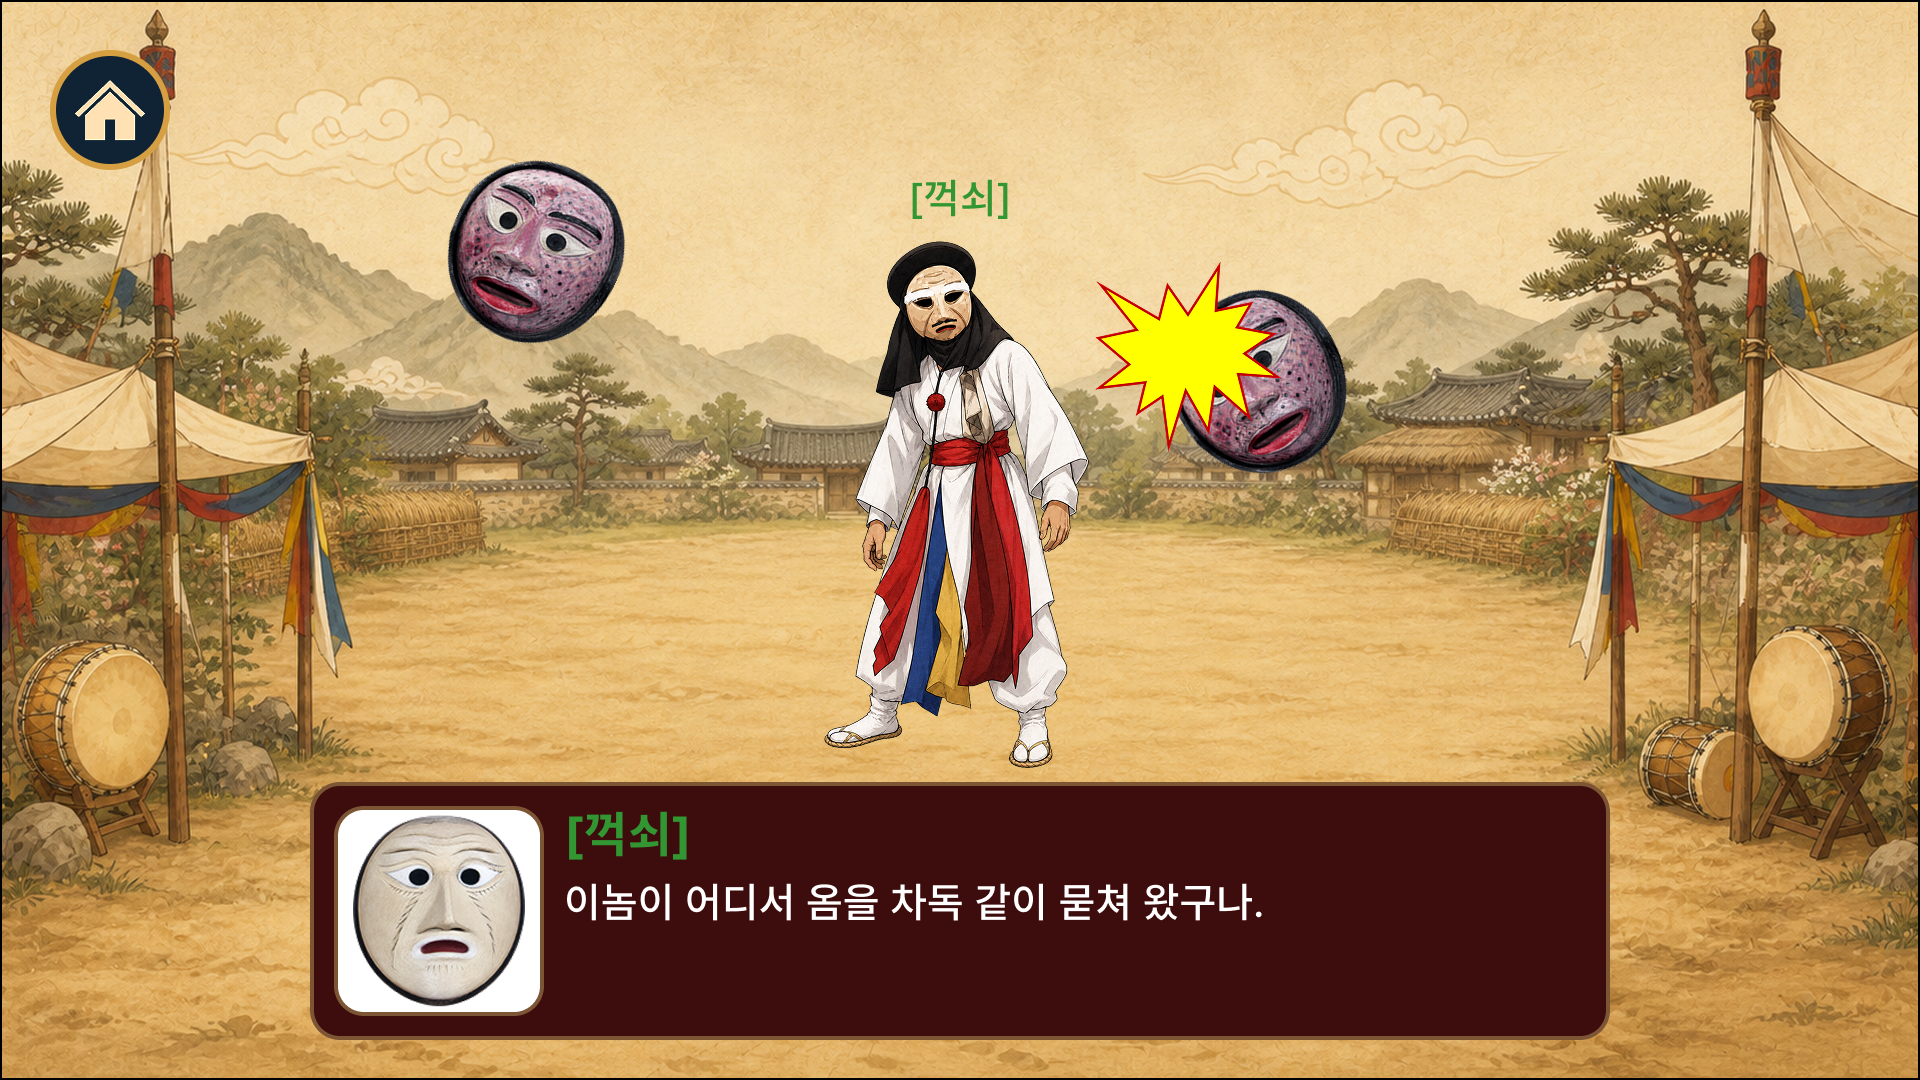
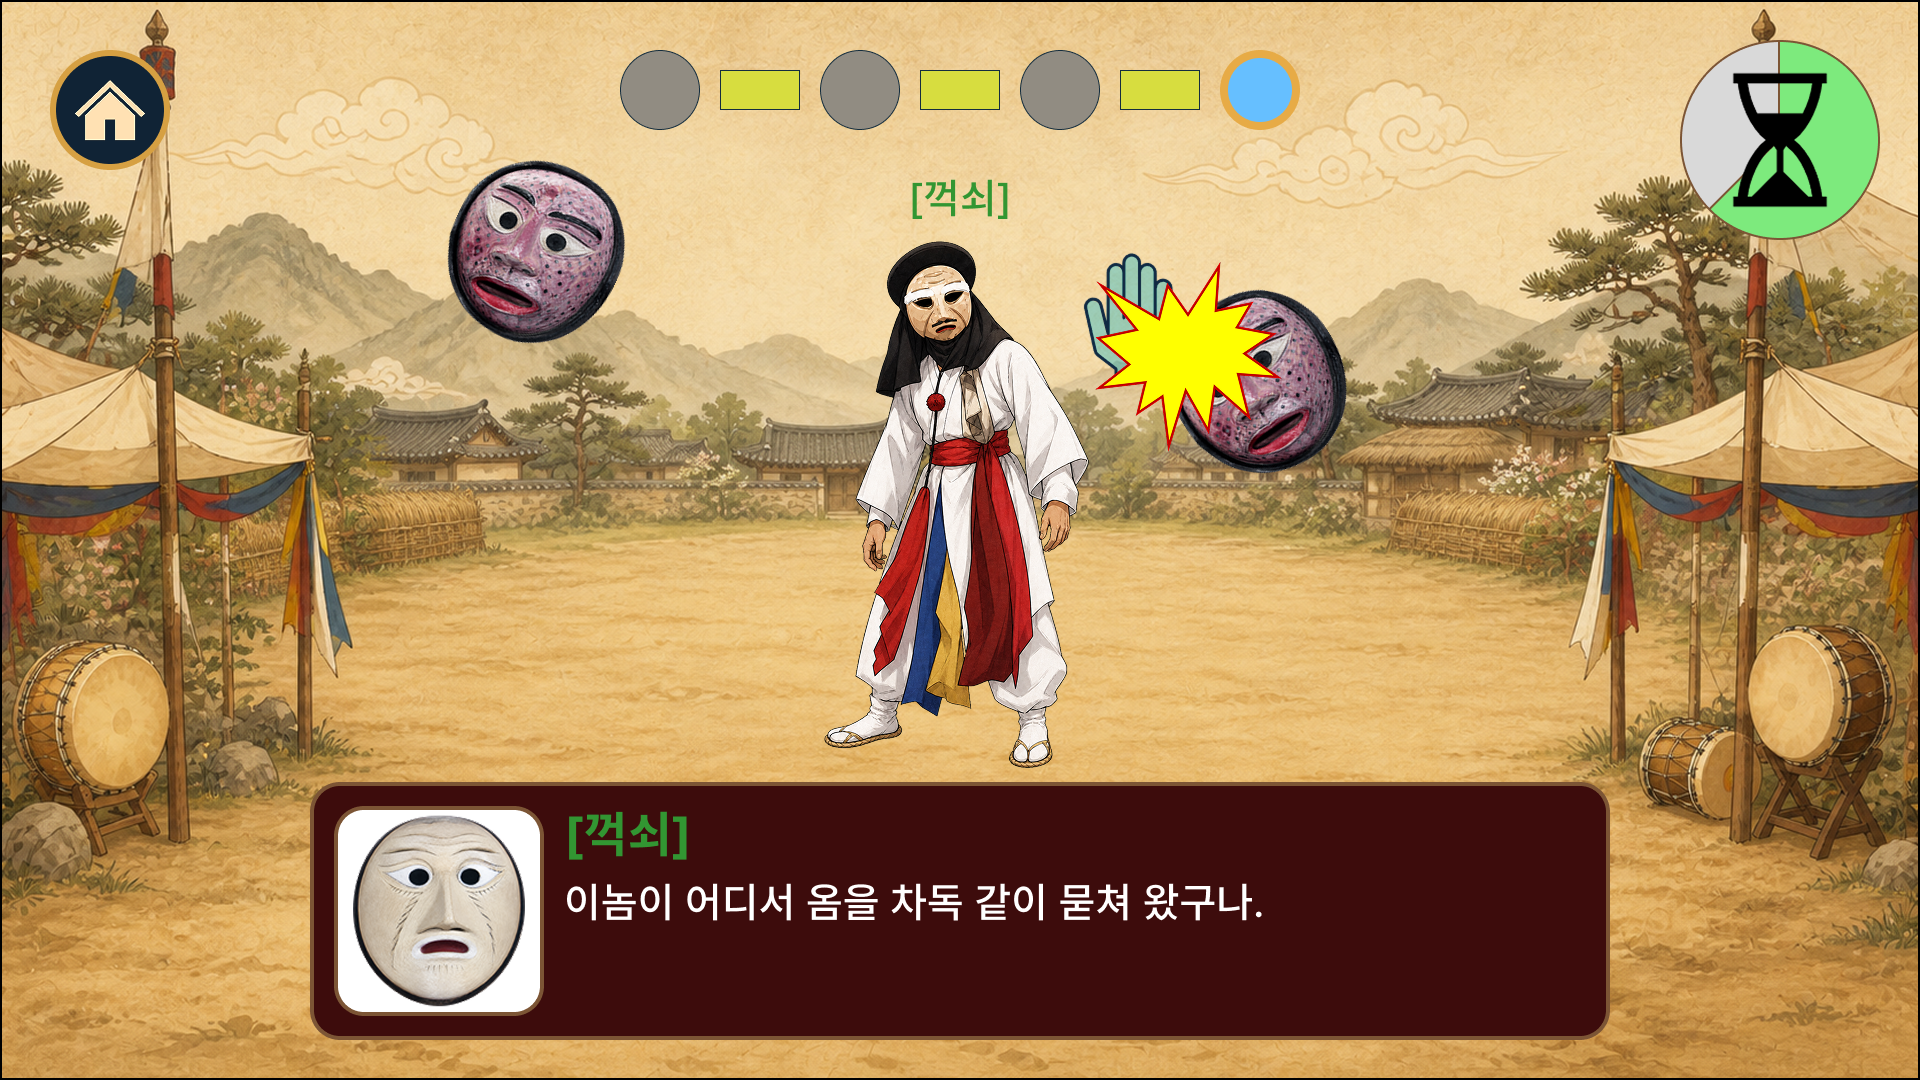
update: 옴탈잡이 기획과 플레이 자산 반영

Changed region(s): [[0.3125, 0.0306, 0.6875, 0.1222], [0.875, 0.0306, 1.0, 0.2444], [0.5625, 0.2444, 0.625, 0.3361]]

diff --git a/05_산출물/시범콘텐츠/05_덧뵈기 - 탈놀음 한바탕/덧뵈기 - 탈놀음 한바탕 기획서.md b/05_산출물/시범콘텐츠/05_덧뵈기 - 탈놀음 한바탕/덧뵈기 - 탈놀음 한바탕 기획서.md
@@ -497,22 +497,20 @@ updated: 2026-09-02
 
 ### 6.2.2 진행
 
-<img src="../../../assets/시범콘텐츠/탈놀음/탈놀음_시작.png"  width=500 >
-
 #### 1) 체험 준비 UI 표시
+
+<img src="../../../assets/시범콘텐츠/탈놀음/탈놀음_시작.png"  width=500 >
 
 - 자세 가이드라인과 장쇠 대사 표시
 - 장쇠가 가이드라인에 몸을 맞추도록 안내
 - 카메라에 비친 유저의 모습을 화면에 표시하여 유저가 정위치에 있을 수 있도록 안내
 
-#### 2) 체험 준비 완료
+#### 2) 체험 준비 완료 및 시작
+
+<img src="../../../assets/시범콘텐츠/탈놀음/손위치포인터.png"  width=500 >
 
 - 유저 등록이 완료 시 가이드라인 숨김
-- 장쇠가 준비 완료 및 체험 시작 안내
-
-#### 3) 선택 마당 시작
-
-- 선택 마당 체험 시작
+- ① 손 위치 포인터(이하 포인터) 표시
 
 ## 6.3 옴탈잡이
 
@@ -527,56 +525,86 @@ updated: 2026-09-02
 <img src="../../../assets/시범콘텐츠/탈놀음/옴탈_시작.png"  width=500 >
 
 ##### (1) 진행
-1. 화면에 장쇠와 꺽쇠가 등장하여 대사 진행
+1. 꺽쇠가 화면 중앙에 등장하여 대사 진행
 
-#### 2) 옴탈 조우
+#### 2) 옴탈 쫓아내기
+
+##### (1) 진행
 
 <img src="../../../assets/시범콘텐츠/탈놀음/옴탈_조우.png"  width=500 >
 
-##### (1) 진행
-
-1. 꺽쇠 화면 중앙 배치 및 화면 상단에 진행 인디케이터 표시
-2. 옴탈 화면 좌우 측에 랜덤하게 지정된 횟수(데이터 테이블로 관리)만큼 랜덤하게 배치
+1. UI 활성화 및 초기화
+	- 인디케이터 초기화
+	- 타이머 초기화
+2. 옴탈이 화면 좌우측에 랜덤하게 지정된 횟수(데이터 테이블로 관리)만큼 배치
 3. 유저가 팔을 휘두르면 모션 인식 후 꺽쇠가 팔 휘두르는 동작 실행
 	- 모션 인식 후 동작 실행까지 걸리는 시간이 짧아야 함
-4. 모션 인식 결과 ROI 유효 판정 시 공격 성공 처리
+4. 모션 인식 결과 유효 판정 시 공격 성공 처리
 	- 진행 점수(세션 데이터 / 수행 기록) 반영
-	- 진행 인디케이터 갱신
-5. 지정된 횟수(데이터 테이블로 관리) 도달 시 다음 단계 진행
+		- 유저 움직임의 정도에 따라 점수 차등 적용
+	- 옴탈 피격 동작 1회 실행 및 피격 이펙트 표시
+5. 타이머 종료 시 다음 단계 진행
 
 #### 3) 옴탈 잡아채기
 
-<img src="../../../assets/시범콘텐츠/탈놀음/옴탈_잡아채기.png"  width=500 >
+##### (1) 시작
 
-##### (1) 진행
+<img src="../../../assets/시범콘텐츠/탈놀음/옴탈_잡아채기_0.png"  width=500 >
 
-1. 꺽쇠 퇴장, 옴탈 화면 중앙 배치 및 진행 인디케이터 갱신
-2. 옴탈 머리 영역에 잡아채는 아이콘 표시
-3. 옴탈이 지정된 영역 내에서 좌우로 랜덤하게 이동
-	- 랜덤 거리 이동 -> 대기 -> 방향 랜덤 결정 -> 랜덤 거리 이동 (반복)
-	- 이동 중 영역 한계 충돌 시 대기 후 반대 방향으로 랜덤 거리 이동
-4. 유저가 팔을 움직여 모션 인식으로 잡아채는 아이콘 선택 시도
-5. ROI 유효 판정 유지 시 쿨다운(데이터 테이블로 관리)이 실행되고 완료 시 공격 성공 처리
+1. 꺽쇠 퇴장, 옴탈 화면 중앙 배치
+2. UI 갱신
+	- 인디케이터 갱신
+	- 타이머 초기화
+3. 옴탈 머리의 벙거지 테두리에 굵은선(주변과 구별될 수 있는 색)이 표시되면서 확대 축소 반복
+4. 모션 인식 결과 포인터가 벙거지에 닿으면 진행 시작
+
+##### (2) 진행
+
+<img src="../../../assets/시범콘텐츠/탈놀음/옴탈_잡아채기_1.png"  width=500 >
+
+1. 꺽쇠 캐릭터 오브젝트 변환
+	- 우스꽝스러운 SD 캐릭터
+		- <span style="color: #C94A4A;">요청사항</span>: 얼굴과 목이 분리되어 있어서 흔들릴 때 덜렁거리는 느낌이 더 강하게 났으면 합니다.
+2. 유저의 모션에 따라 옴탈 SD 캐릭터가 흔들리고 캐릭터로부터 엽전이 떨어짐
+	- <span style="color: #C94A4A;">요청사항</span>: 엽전 떨어지는 연출은 디아블로의 보물 고블린같은 느낌이 났으면 합니다.
+3. 흔들림 강도에 따라 연출 차등 적용
+	- 옴탈 SD 캐릭터의 흔들림
+	- 옴탈에게서 떨어지는 엽전의 수량
+4. 모션 인식 결과 흔들 때마다 공격 성공 처리
+	- 일정 거리 이상 흔들어야 유효 판정
 	- 진행 점수(세션 데이터 / 수행 기록) 반영
-	- 진행 인디케이터 갱신
-6. 지정된 횟수(데이터 테이블로 관리) 도달 시 다음 단계 진행
+		- 유저 움직임의 정도에 따라 점수 차등 적용
+5. 타이머 종료 시 다음 단계 진행
 
 #### 4) 옴탈 채검하기
 
-<img src="../../../assets/시범콘텐츠/탈놀음/옴탈_채검하기.png"  width=500 >
+##### (1) 시작
 
-##### (1) 진행
+<img src="../../../assets/시범콘텐츠/탈놀음/옴탈_채검하기_0_화살표표시.png"  width=500 >
 
-1. 옴탈 화면 중앙 배치 유지 및 진행 인디케이터 갱신
-2. 옴탈 얼굴 영역에 긁는 아이콘 표시
-3. 옴탈이 지정된 영역 내에서 좌우로 랜덤하게 이동
-	- 랜덤 거리 이동 -> 대기 -> 방향 랜덤 결정 -> 랜덤 거리 이동 (반복)
-	- 이동 중 영역 한계 충돌 시 대기 후 반대 방향으로 랜덤 거리 이동
-4. 유저가 팔을 움직여 모션 인식으로 긁는 아이콘 선택 시도
-5. ROI 유효 판정 유지 시 쿨다운(데이터 테이블로 관리)이 실행되고 완료 시 공격 성공 처리
+1. 꺽쇠 캐릭터 오브젝트 변환
+	- 기분 나쁜 표정을 짓고 있는 옴탈의 얼굴 강조 캐릭터
+2. UI 갱신
+	- 인디케이터 갱신
+	- 타이머 초기화
+	- 옴탈 얼굴 좌우에 불투명 화살표(①, ②) 표시
+3. 모션 인식 결과 포인터가 좌 -> 우, 우 -> 좌로 일정 거리 이상 움직이면 진행 시작
+
+##### (2) 진행
+
+<img src="../../../assets/시범콘텐츠/탈놀음/옴탈_채검하기_1.png"  width=500 >
+
+1. 피격 판정 성공 시 처리
+	- 옴탈 피격 애니메이션 및 이펙트 실행
+		- 애니메이션 실행 중 포인터는 유지하지만 입력은 막음
+2. 휘두르는 강도에 따라 연출 차등 적용
+	- 옴탈 캐릭터 흔들림
+	- 이펙트 크기
+3. 모션 인식 결과 옴탈 피격 시 공격 성공 처리
+	- 일정 거리 이상 손을 휘둘러야 유효 판정
 	- 진행 점수(세션 데이터 / 수행 기록) 반영
-	- 진행 인디케이터 갱신
-6. 지정된 횟수(데이터 테이블로 관리) 도달 시 다음 단계 진행
+		- 유저 움직임의 정도에 따라 점수 차등 적용
+4. 타이머 종료 시 다음 단계 진행
 
 #### 5) 옴탈 몰아내기
 
@@ -584,17 +612,19 @@ updated: 2026-09-02
 
 ##### (1) 진행
 
-1. 옴탈 퇴장, 꺽쇠 화면 중앙 배치 및 진행 인디케이터 숨김김
-2. 화면 좌우의 상, 중, 하 6개 지점에서 랜덤하게 옴탈의 탈이 꺽쇠에게 이동함
-	- 옴탈의 탈은 포물선 이동
-3. 유저가 팔을 휘두르면 모션 인식 후 꺽쇠가 팔 휘두르는 동작 실행
-	- 모션 인식 후 동작 실행까지 걸리는 시간이 짧아야 함
-	- 모션 인식이 일정 값 이상일 경우에 ROI 유효 판정 실행
-		- 가만히 있을 경우 판정 X
-4. 모션 인식 결과 ROI 유효 판정 시 공격 성공 처리
+1. 옴탈 퇴장, 꺽쇠 화면 중앙 배치
+2. UI 갱신
+	- 인디케이터 갱신
+	- 타이머 초기화
+	- 옴탈 얼굴 좌우에 불투명 화살표(①, ②) 숨김
+3. 꺽쇠는 탈춤을 추는 동작을 반복
+4. 화면 좌우의 상, 중, 하 6개 지점에서 랜덤하게 옴탈의 탈이 꺽쇠에게 포물선을 그리며 이동함
+	- 꺽쇠에게 옴탈의 탈이 닿으면 꺽쇠는 피격 동작 실행
+5. 유저는 포인터를 움직여 옴탈의 탈을 맞춰야 함
+6. 모션 인식 결과 유효 판정 시 공격 성공 처리
 	- 진행 점수(세션 데이터 / 수행 기록) 반영
-	- 진행 인디케이터 갱신
-5. 지정된 횟수(데이터 테이블로 관리) 도달 시 다음 단계 진행
+	- 옴탈 피격 동작 1회 실행 및 피격 이펙트 표시
+7. 타이머 종료 시 다음 단계 진행
 
 #### 6) 마무리
 
@@ -606,7 +636,7 @@ updated: 2026-09-02
 2. 꺽쇠 마무리 대사 진행
 3. 옴탈이 우스꽝스럽게 화면 밖으로 퇴장
 4. 다음 단계 진행
-
+%%
 ## 6.4 샌님잡이
 
 ### 6.4.1 개요
@@ -805,7 +835,7 @@ updated: 2026-09-02
 2. 취발이 마무리 대사 진행
 3. 먹중이 우스꽝스럽게 화면 밖으로 퇴장
 4. 다음 단계 진행
-
+%%
 # 7. 마무리 진행
 
 ## 7.1 개요
@@ -822,9 +852,7 @@ updated: 2026-09-02
 
 - 세션 데이터에서 현재 언어, 선택 마당 및 수행 기록 로드
 - 선택 마당의 단계 별 수행 기록을 결과 화면에 표시할 항목으로 집계
-	- 모션 체험: 성공 횟수 누적
-	- 키워드 조합: 조합 별 획득 점수 누적
-	- 증거 조합: 조합 성공 개수 누적
+	- 각 단계의 점수를 100점 기준으로 정규화 후 가중 평균 처리
 - 집계 결과를 최종 결과 데이터로 확정
 - 기록 없는 항목은 미수행 상태로 처리
 

diff --git a/99_Logs/log.md b/99_Logs/log.md
@@ -7,6 +7,13 @@ updated: 2026-09-02
 
 # 작업 로그
 
+## [2026-09-02] update | 탈놀음 기획서와 옴탈잡이 자산 일괄 반영
+
+- 옴탈잡이의 단계별 진행을 체험 준비, 쫓아내기, 잡아채기, 채검하기, 몰아내기로 나누고 UI와 모션 판정 흐름에 맞춰 갱신함
+- 마무리 결과 집계를 단계별 점수를 정규화한 뒤 가중 평균을 내는 방식으로 변경함
+- 포인터, 타이머, 화살표, 벙거지 자산과 옴탈 단계별 연출 이미지를 추가하고, 기존 옴탈 이미지와 플로우 이미지를 갱신함
+- 수정 파일: `05_산출물/시범콘텐츠/05_덧뵈기 - 탈놀음 한바탕/덧뵈기 - 탈놀음 한바탕 기획서.md`, `assets/시범콘텐츠/탈놀음/`, `99_Logs/log.md`
+
 ## [2026-09-02] create | 옴탈잡이 채검하기 피격 반응 이미지 생성
 
 - 얄미운 표정의 정면 이미지를 바탕으로 옴탈이 뺨을 맞은 직후의 반응 프레임을 생성함
